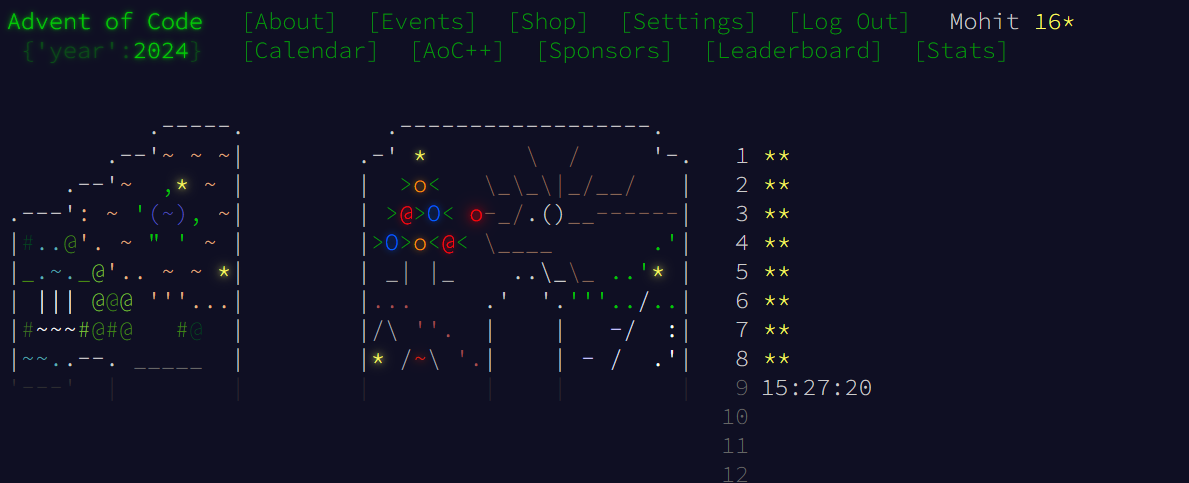
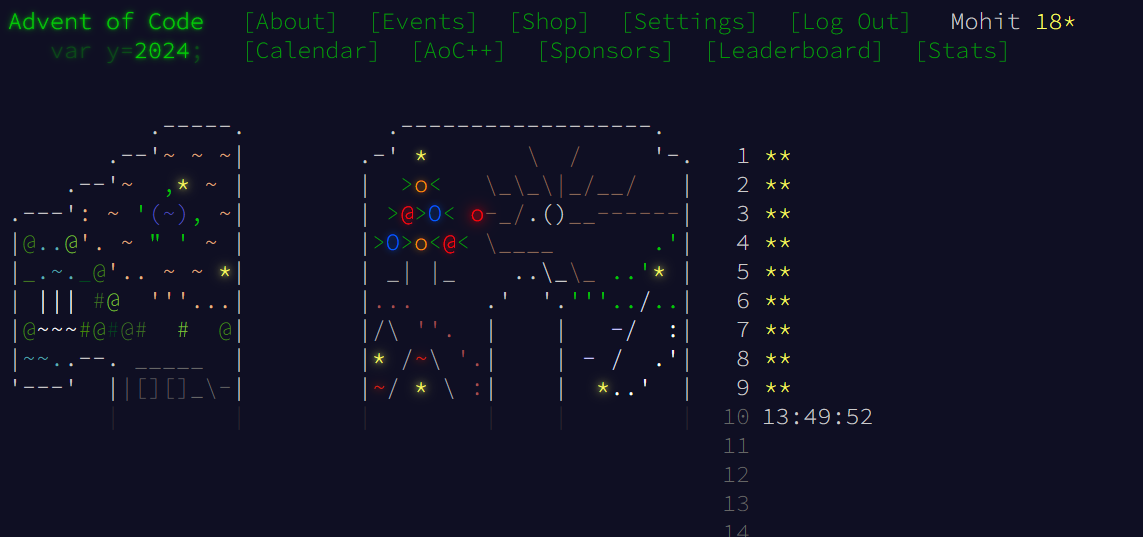
Day9 completed

diff --git a/day9/day9.go b/day9/day9.go
@@ -3,6 +3,7 @@ package main
 import (
 	"fmt"
 	"os"
+	"sort"
 	"strconv"
 	"strings"
 )
@@ -35,30 +36,111 @@ func main() {
 		id++
 	}
 
+	// <--- part 1 ---> start
+
+	// start := 0
+	// last := len(dec_input) - 1
+
+	// free_space := 0
+	// need := 0
+	// for start < last {
+	// 	for dec_input[start] != "." && free_space == 0 {
+	// 		start++
+	// 	}
+
+	// 	for dec_input[start] == "." {
+	// 		free_space++
+	// 		start++
+	// 	}
+
+	// 	for dec_input[last] == "." && need == 0 {
+	// 		last--
+	// 	}
+	// 	if start >= last {
+	// 		break
+	// 	}
+
+	// 	ref := dec_input[last]
+	// 	for start < last && dec_input[last] != "." && dec_input[last] == ref {
+	// 		need++
+	// 		last--
+	// 	}
+
+	// 	if start >= last {
+	// 		break
+	// 	}
+
+	// 	if free_space >= need {
+	// 		for need != 0 {
+	// 			dec_input[start-free_space] = ref
+	// 			dec_input[last+need] = "."
+	// 			free_space--
+	// 			need--
+	// 		}
+	// 	} else {
+	// 		free_space = 0
+	// 	}
+	// }
 	// fmt.Println(dec_input)
 
-	start := 0
-	last := len(dec_input) - 1
+	// <--- part 1 ---> end
 
-	for start < last {
-		for dec_input[start] != "." {
-			start++
+	// <--- part 2 ---> start
+
+	var sorted_id []int
+	mp := make(map[int]int)
+	for i := len(dec_input) - 1; i >= 0; i-- {
+		if dec_input[i] == "." {
+			continue
 		}
-		for dec_input[last] == "." {
-			last--
+		val, _ := strconv.Atoi(dec_input[i])
+		if mp[val] == 0 {
+			sorted_id = append(sorted_id, val)
 		}
-		if start >= last {
-			break
-		}
-		dec_input[start] = dec_input[last]
-		dec_input[last] = "."
+		mp[val]++
 	}
 
-	// fmt.Println(dec_input)
+	sort.Sort(sort.Reverse(sort.IntSlice(sorted_id)))
+
+	for idx, id := range sorted_id {
+		need := mp[sorted_id[idx]]
+		free_space := 0
+		for i := 0; i < len(dec_input); i++ {
+			if strconv.Itoa(id) == dec_input[i] {
+				break
+			}
+			if dec_input[i] == "." {
+				free_space++
+			} else {
+				free_space = 0
+			}
+
+			if free_space == need {
+				// fmt.Println(id, i, i-free_space+1, free_space)
+				for j := len(dec_input) - 1; j >= 0; j-- {
+					if dec_input[j] == strconv.Itoa(id) {
+						dec_input[j] = "."
+					}
+				}
+				for free_space != 0 {
+					dec_input[i-free_space+1] = strconv.Itoa(id)
+					free_space--
+				}
+				// fmt.Println(dec_input)
+				// fmt.Println()
+
+				break
+			}
+		}
+
+	}
+
+	// <--- part 2 ---> end
+
 	output := 0
 	for pos, val := range dec_input {
 		if val == "." {
-			break
+			continue
 		}
 		id, _ := strconv.Atoi(val)
 		if id < 0 {
